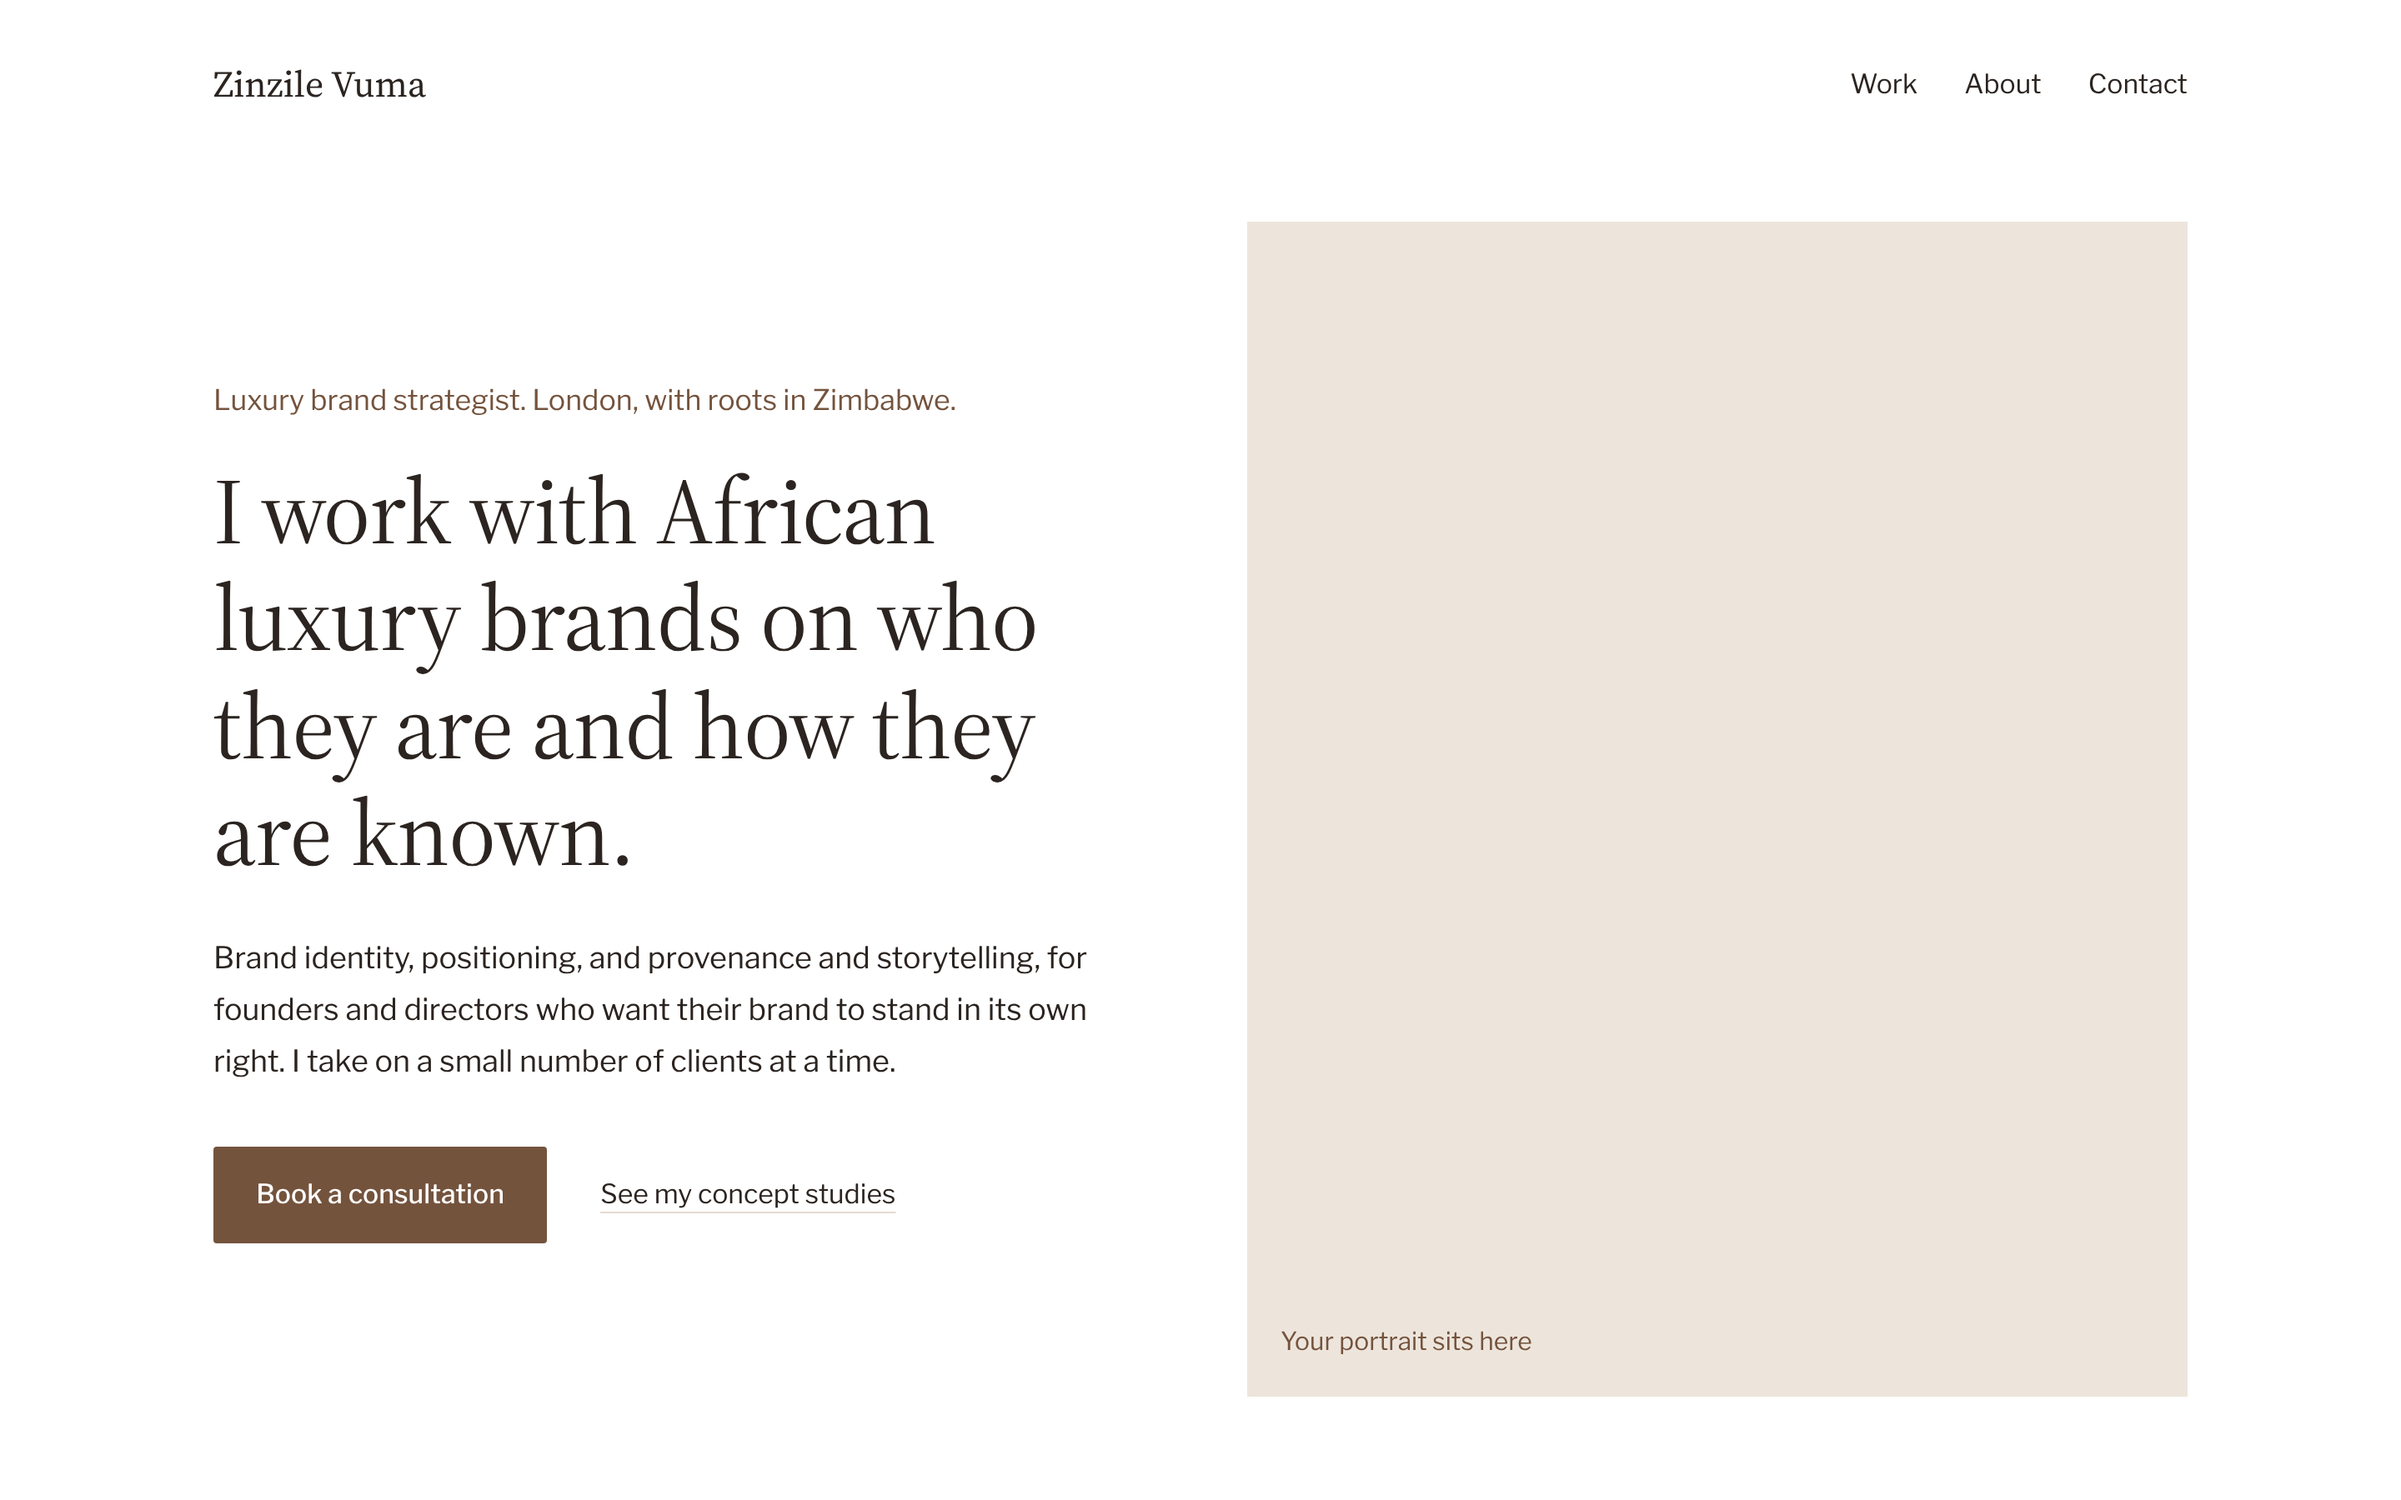
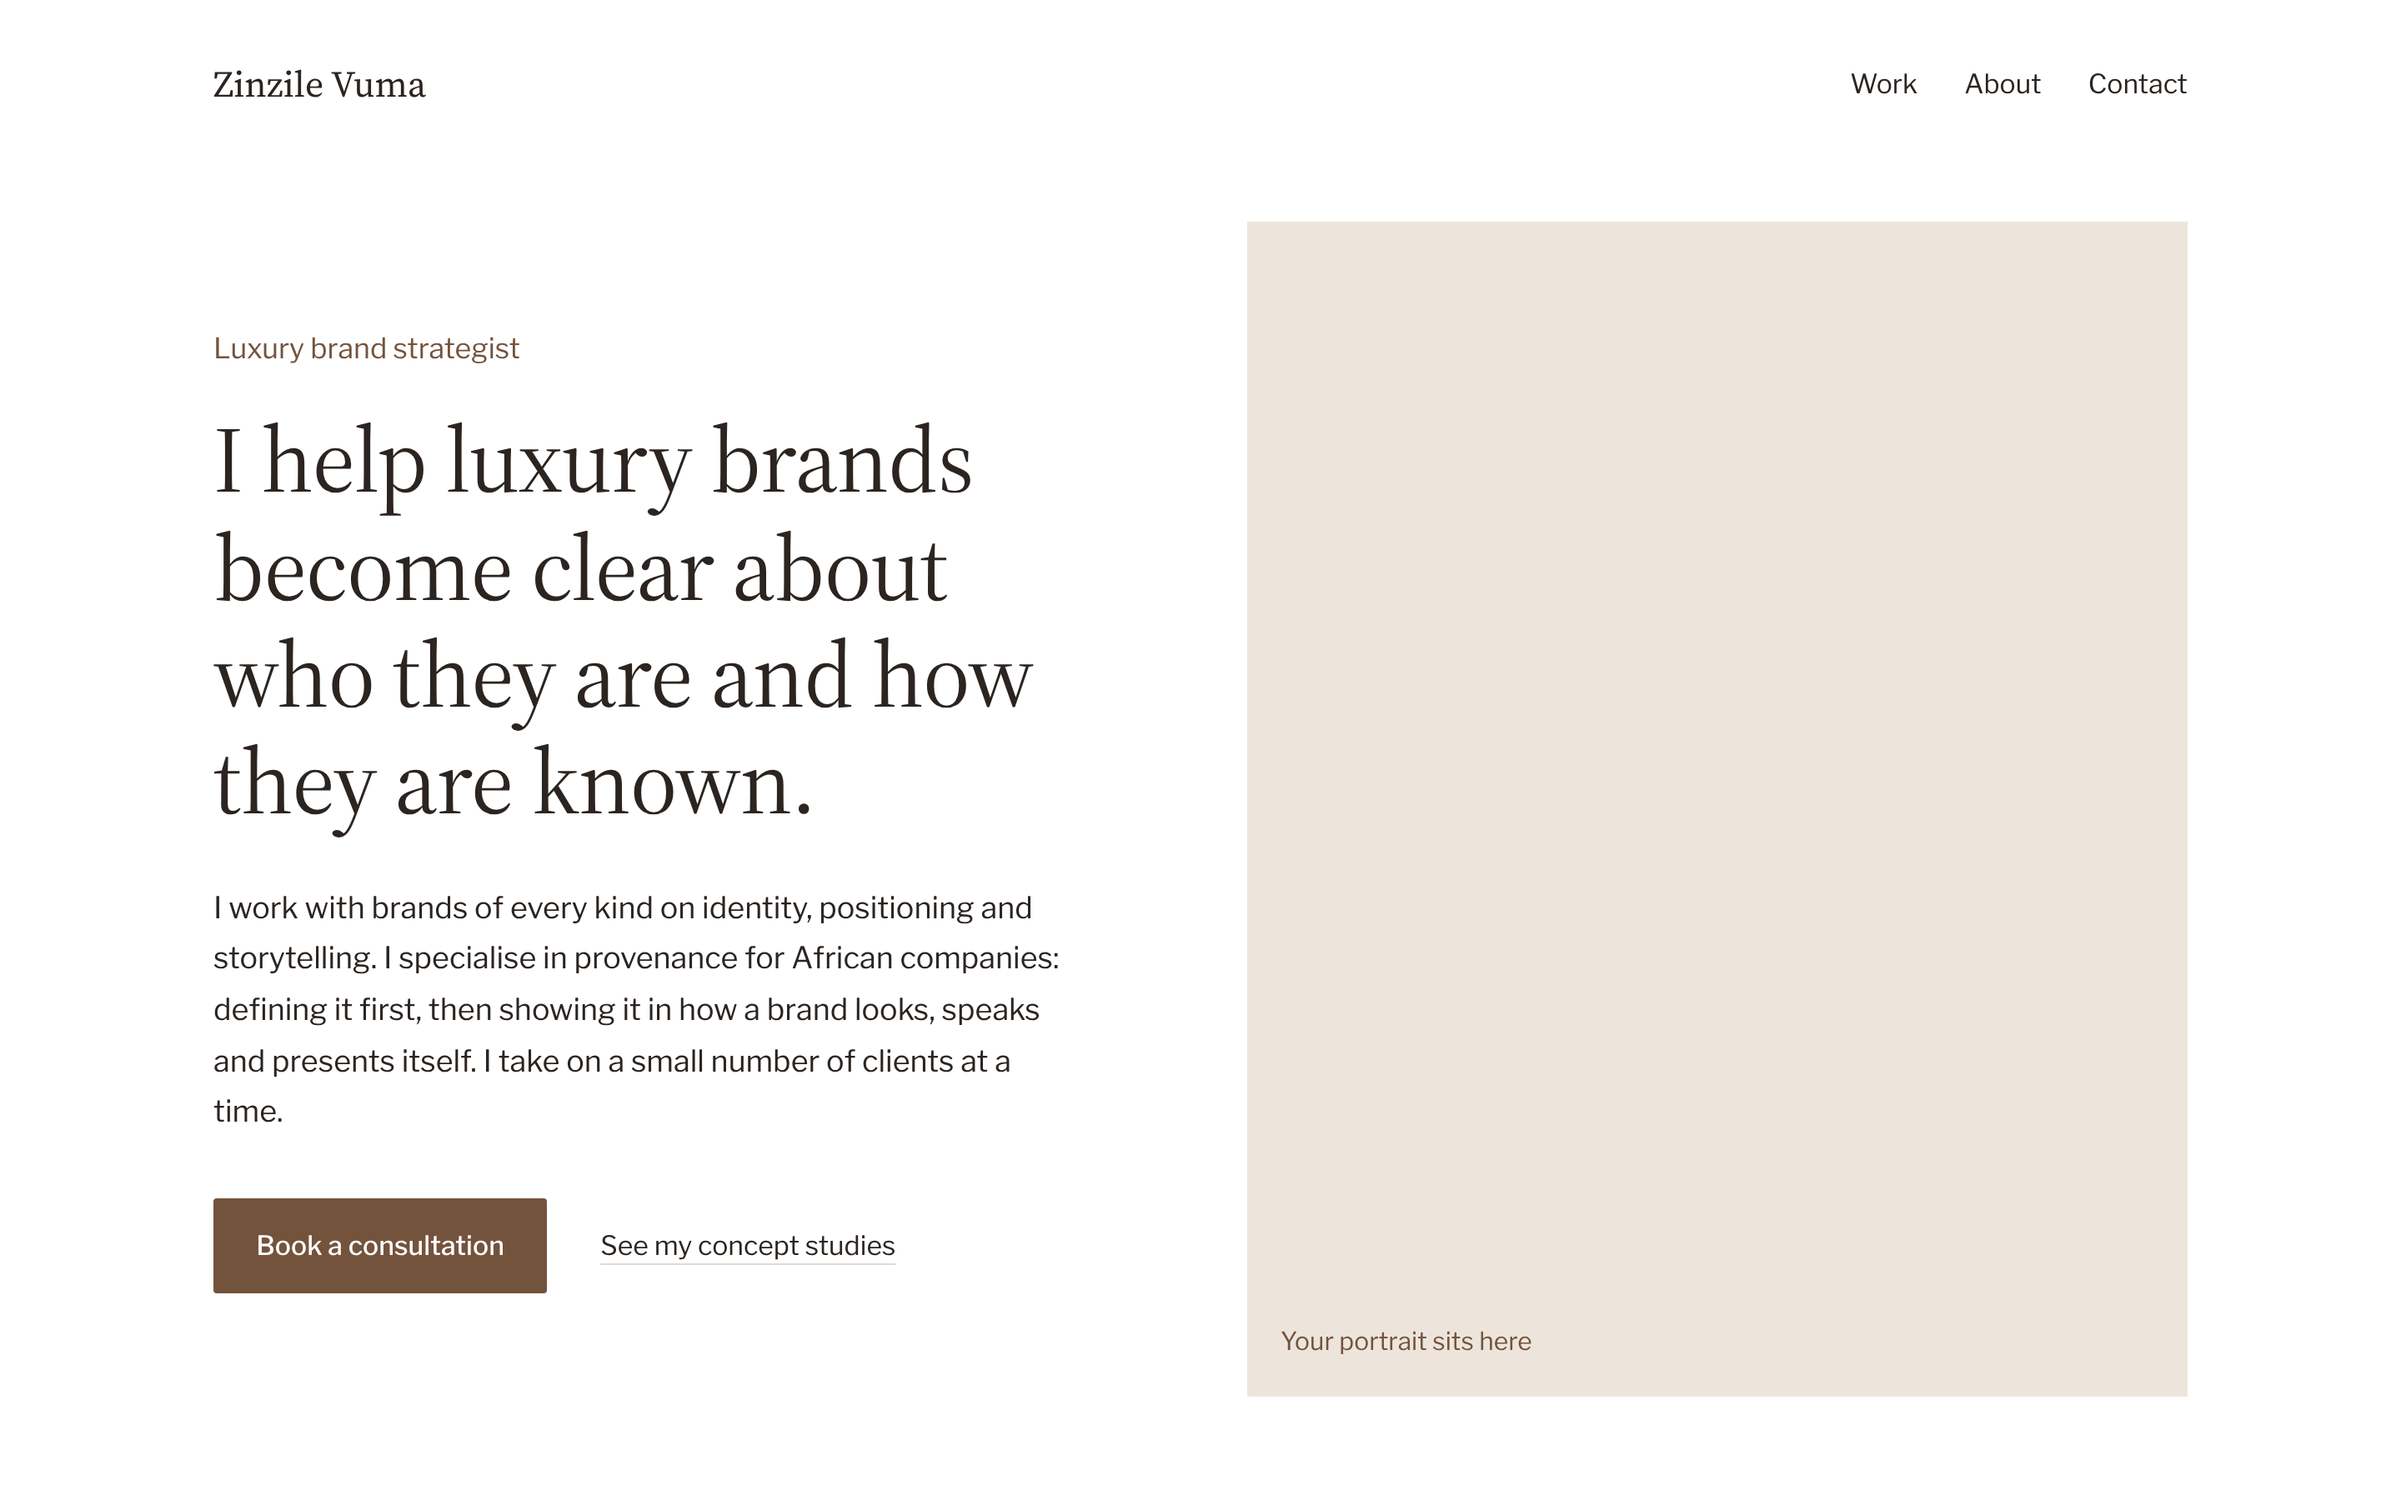
Rewrite hero copy: luxury brand strategist for all brands, provenance specialism for African companies
Claude-Session: https://claude.ai/code/session_015gCnZ4Qcr2szkeUrX614La

Changed region(s): [[0.0625, 0.2178, 0.4375, 0.8711]]

diff --git a/zinzilevuma/directions/b-split.html b/zinzilevuma/directions/b-split.html
@@ -62,9 +62,9 @@
   </header>
   <main class="hero">
     <div>
-      <p class="role">Luxury brand strategist. London, with roots in Zimbabwe.</p>
-      <h1>I work with African luxury brands on who they are and how they are known.</h1>
-      <p class="body">Brand identity, positioning, and provenance and storytelling, for founders and directors who want their brand to stand in its own right. I take on a small number of clients at a time.</p>
+      <p class="role">Luxury brand strategist</p>
+      <h1>I help luxury brands become clear about who they are and how they are known.</h1>
+      <p class="body">I work with brands of every kind on identity, positioning and storytelling. I specialise in provenance for African companies: defining it first, then showing it in how a brand looks, speaks and presents itself. I take on a small number of clients at a time.</p>
       <div class="actions">
         <a class="btn" href="#contact">Book a consultation</a>
         <a class="quiet" href="#work">See my concept studies</a>

diff --git a/zinzilevuma/directions/a-letter.html b/zinzilevuma/directions/a-letter.html
@@ -60,8 +60,8 @@
   <main class="hero">
     <div class="portrait" role="img" aria-label="Portrait of Zinzile Vuma">Your portrait sits here</div>
     <div>
-      <h1>I help African luxury brands become known for something specific, and say it well.</h1>
-      <p class="lede">I am a luxury brand strategist based in London, with roots in Zimbabwe. I work with founders and directors on brand identity, positioning, and provenance and storytelling.</p>
+      <h1>I help luxury brands become known for something specific, and say it well.</h1>
+      <p class="lede">I am a luxury brand strategist. I work with brands of every kind on identity, positioning and storytelling, and I specialise in provenance for African companies: defining where a brand comes from and what that means, then showing it consistently.</p>
       <p class="lede">I take on a small number of clients at a time, so each one has my full attention.</p>
       <a class="cta" href="#contact">Book a first conversation</a>
     </div>
